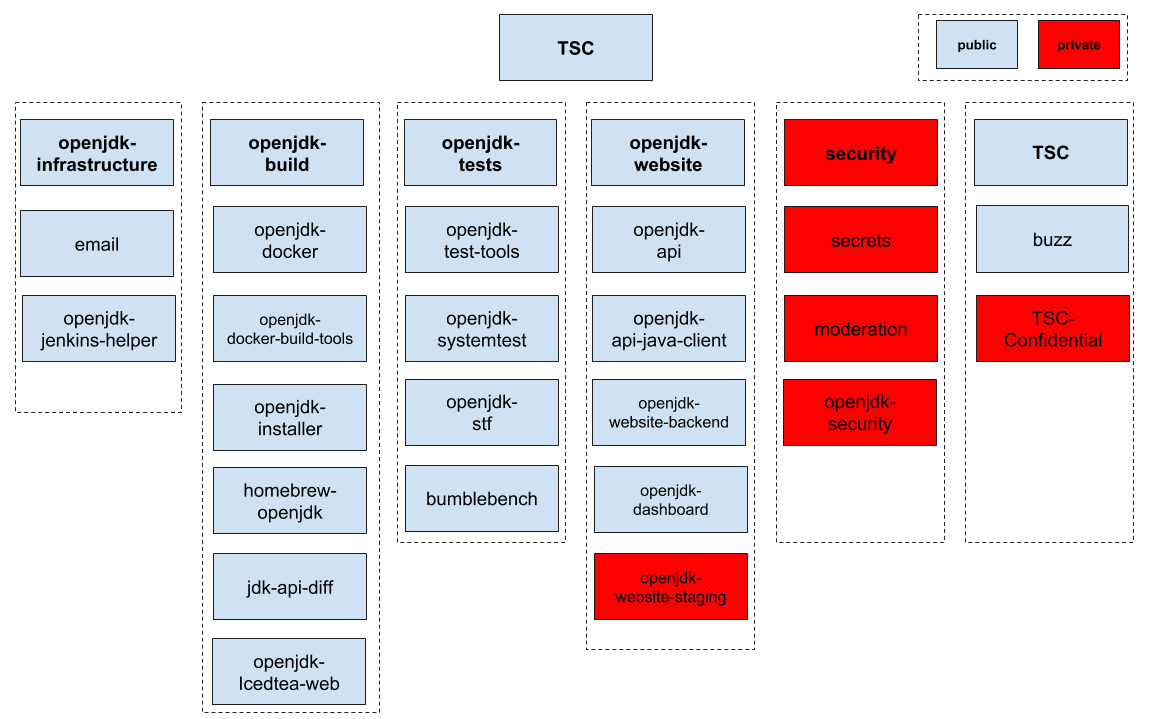
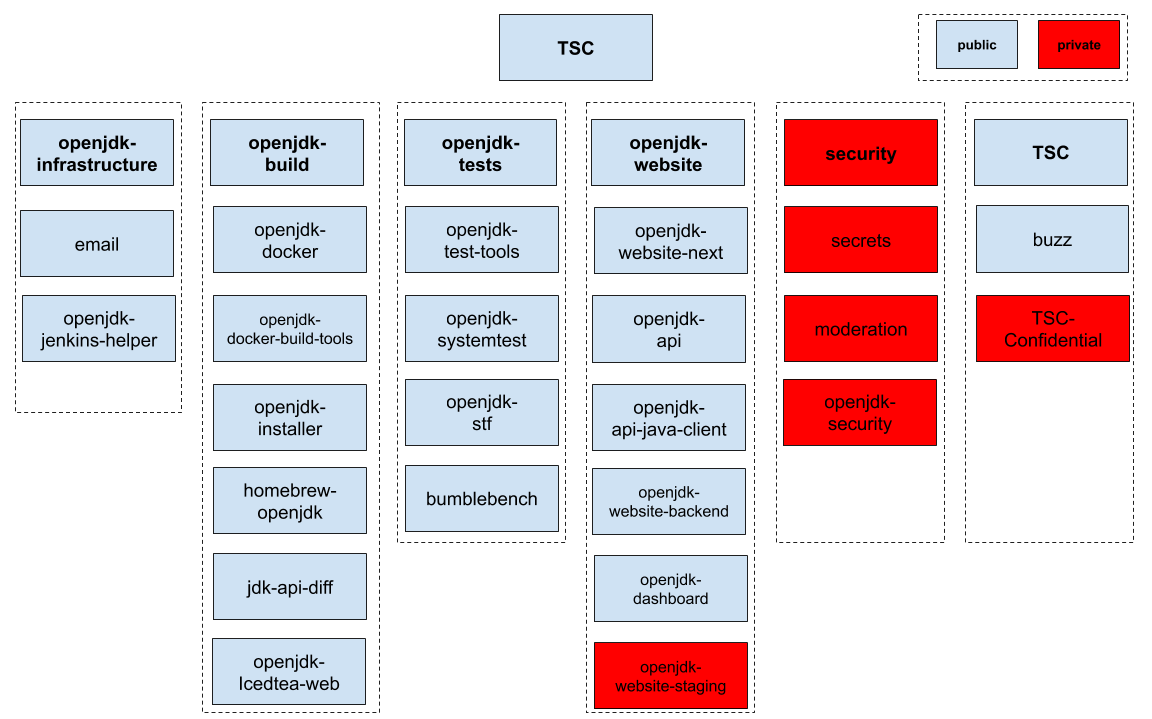
add 13u and next website

diff --git a/README.md b/README.md
@@ -53,6 +53,7 @@ changes.)
     * [stf](https://github.com/AdoptOpenJDK/stf) - The System Test Framework, a harness for executing [openjdk-systemtest](https://github.com/AdoptOpenJDK/openjdk-systemtest)
     * [bumblebench](https://github.com/AdoptOpenJDK/bumblebench) - A microbenchmarking test framework for Adopt OpenJDK
 * [openjdk-website](https://github.com/AdoptOpenJDK/openjdk-website) - Code and instructions for https://www.adoptopenjdk.net
+    * [openjdk-website-next](https://github.com/AdoptOpenJDK/openjdk-website-next) - The Typescript and React re-write for https://www.adoptopenjdk.net
     * [openjdk-api](https://github.com/AdoptOpenJDK/openjdk-api) - Code and instructions for https://api.adoptopenjdk.net
         * [openjdk-api-java-client](https://github.com/AdoptOpenJDK/openjdk-api-java-client) - A Java client for our API
     * [openjdk-website-backend](https://github.com/AdoptOpenJDK/openjdk-website-backend) - Code for pulling the GitHub releases API into the website
@@ -75,6 +76,7 @@ When an OpenJDK variant is mercurial based or AdoptOpenJDK needs to maintain its
 * [openjdk-jdk10u](https://github.com/AdoptOpenJDK/openjdk-jdk10u)
 * [openjdk-jdk11u](https://github.com/AdoptOpenJDK/openjdk-jdk11u)
 * [openjdk-jdk12u](https://github.com/AdoptOpenJDK/openjdk-jdk12u)
+* [openjdk-jdk13u](https://github.com/AdoptOpenJDK/openjdk-jdk13u)
 * [openjdk-jdk](https://github.com/AdoptOpenJDK/openjdk-jdk)
 * [openjdk-jfx](https://github.com/AdoptOpenJDK/openjdk-jfx)
 * [openjdk-amber](https://github.com/AdoptOpenJDK/openjdk-amber)
@@ -89,6 +91,7 @@ API (and subsequently) website poll these repos to make binaries available.
 * [openjdk10-binaries](https://github.com/AdoptOpenJDK/openjdk10-binaries/) - AdoptOpenJDK nightly and release binaries for OpenJDK 10 (HotSpot VM and Eclipse OpenJ9 VM)
 * [openjdk11-binaries](https://github.com/AdoptOpenJDK/openjdk11-binaries/) - AdoptOpenJDK nightly and release binaries for OpenJDK 11 (HotSpot VM and Eclipse OpenJ9 VM)
 * [openjdk12-binaries](https://github.com/AdoptOpenJDK/openjdk12-binaries/) - AdoptOpenJDK nightly and release binaries for OpenJDK 12 (HotSpot VM and Eclipse OpenJ9 VM)
+* [openjdk13-binaries](https://github.com/AdoptOpenJDK/openjdk13-binaries/) - AdoptOpenJDK nightly and release binaries for OpenJDK 13 (HotSpot VM and Eclipse OpenJ9 VM)
 * [openjdk-binaries](https://github.com/AdoptOpenJDK/openjdk-binaries/) - AdoptOpenJDK nightly and release binaries for OpenJDK (Latest) (HotSpot VM and Eclipse OpenJ9 VM)
 
 ### OpenJDK binary repos
@@ -131,8 +134,7 @@ getting a new variant up and running.  Please also see [Platform Costs](https://
 variants with high impact on the build farm will require funding.
 
 1. **OpenJDK HotSpot Mirrors** - GitHub mirrors of OpenJDK forests are created in the AdoptOpenJDK org. For example:
-[openjdk-jdk8u](https://github.com/AdoptOpenJDK/openjdk-jdk8u), [openjdk-jdk9](https://github.com/AdoptOpenJDK/openjdk-jdk9),
-[openjdk-jdk10](https://github.com/AdoptOpenJDK/openjdk-jdk10), [openjdk-amber](https://github.com/AdoptOpenJDK/openjdk-amber). Please open an
+[openjdk-jdk8u](https://github.com/AdoptOpenJDK/openjdk-jdk8u), [openjdk-jdk11u](https://github.com/AdoptOpenJDK/openjdk-jdk11u). Please open an
 [openjdk-TSC issue](https://github.com/AdoptOpenJDK/openjdk-TSC/issues) if you'd like a new variant added.
     1. **git-hg Jobs Update Mirrors** - Our Jenkins CI runs [git-hg jobs](https://ci.adoptopenjdk.net/view/git-hg/) to regularly
         update those various clones of OpenJDK forests. See their job configurations in Jenkins and the [openjdk-build](https://github.com/AdoptOpenJDK/openjdk-build)
@@ -146,7 +148,7 @@ variants with high impact on the build farm will require funding.
 
 Each OpenJDK variant has a canonical branch that is built:
 1. **OpenJDK HotSpot** - The `dev` branch of AdoptOpenJDK contains extra patches over and above `master` (which is the exact clone of the OpenJDK forest).
-`dev` is used to build AdoptOpenjDK binaries
+`dev` is used to build AdoptOpenJDK binaries
 1. **OpenJDK OpenJ9** - Branches such as `openj9-0.8` are used to build OpenJ9 Releases for Java 8 and `openj9` is used to build OpenJ9 for Java 9.
 1. **OpenJDK SAP** - The `sapmachine` branch is used to build SAP for Java 10
 1. **OpenJDK OpenJFX** - TODO
@@ -156,7 +158,7 @@ Each OpenJDK variant has a canonical branch that is built:
 Our Jenkins [Pipelines](https://ci.adoptopenjdk.net/view/Pipelines/) ([source code](https://github.com/AdoptOpenJDK/openjdk-build/tree/master/pipelines)) build
 binaries and then push them through a test pipeline (**NOTE** Test pipeline is skipped for certain unstable combinations).
 
-**NOTE:** Once the Test jobs have stabilised, the pipeline described below will change so that only tested binarues are released to
+**NOTE:** Once the Test jobs have stabilised, the pipeline described below will change so that only tested binaries are released to
 Nightly and Release repos for consumption by the Website and/Or API.  See [The Quality Bar Discussion](https://github.com/AdoptOpenJDK/openjdk-tests/issues/186)
 for details.
 
@@ -199,6 +201,7 @@ from [bumblebench](https://github.com/AdoptOpenJDK/bumblebench) are executed and
     [openjdk10-binaries](https://github.com/AdoptOpenJDK/openjdk10-binaries/),
     [openjdk11-binaries](https://github.com/AdoptOpenJDK/openjdk11-binaries/),
     [openjdk12-binaries](https://github.com/AdoptOpenJDK/openjdk12-binaries/),
+    [openjdk13-binaries](https://github.com/AdoptOpenJDK/openjdk13-binaries/),
     [openjdk-binaries](https://github.com/AdoptOpenJDK/openjdk-binaries/)).
 
 1. **Binaries made available** - Binaries are made available for download via the [website](https://www.adoptopenjdk.net)
